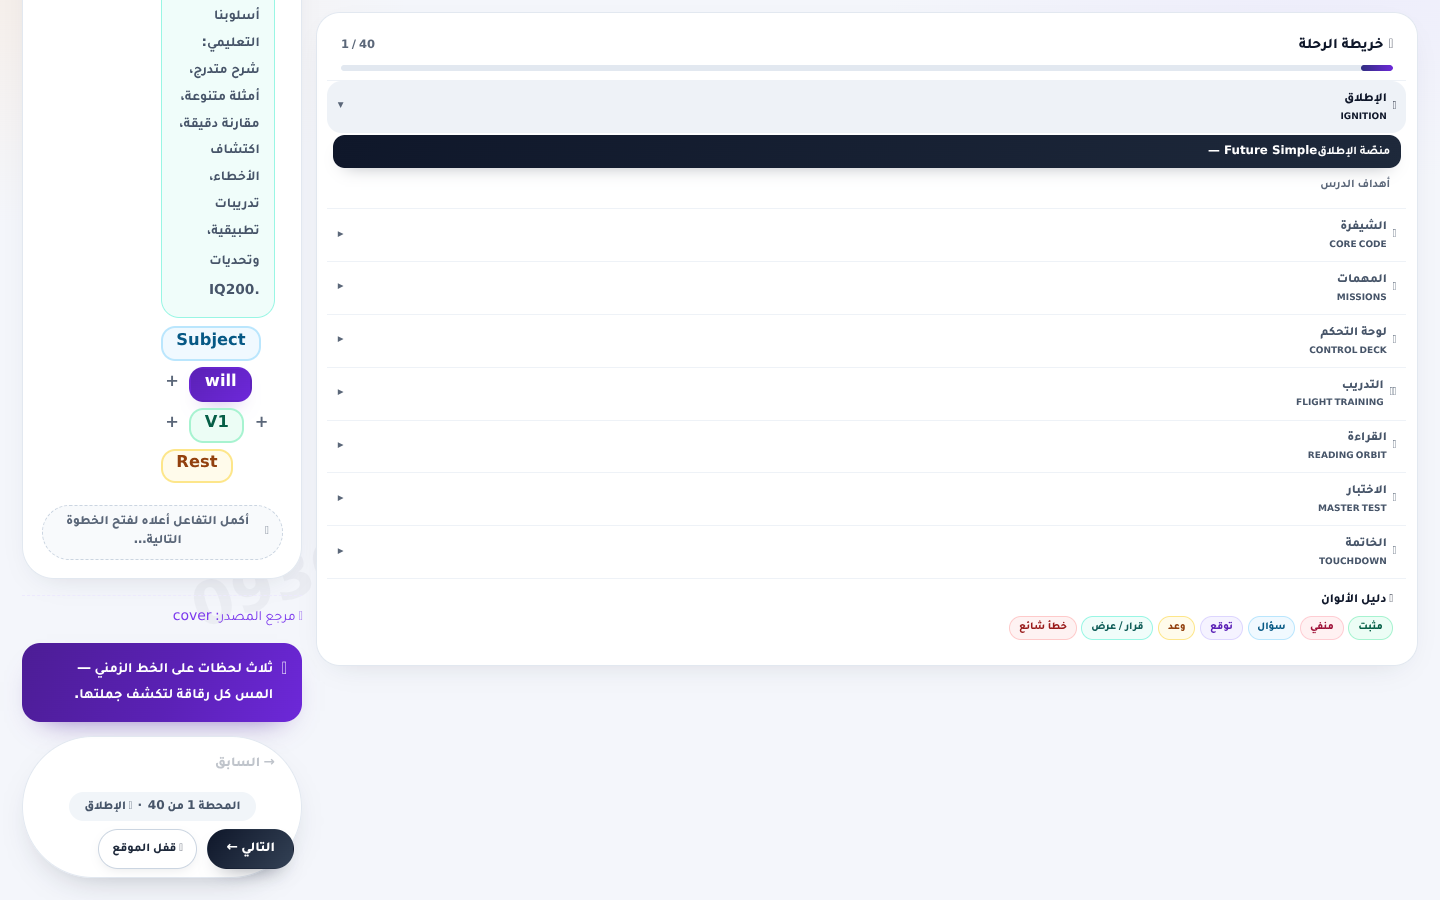
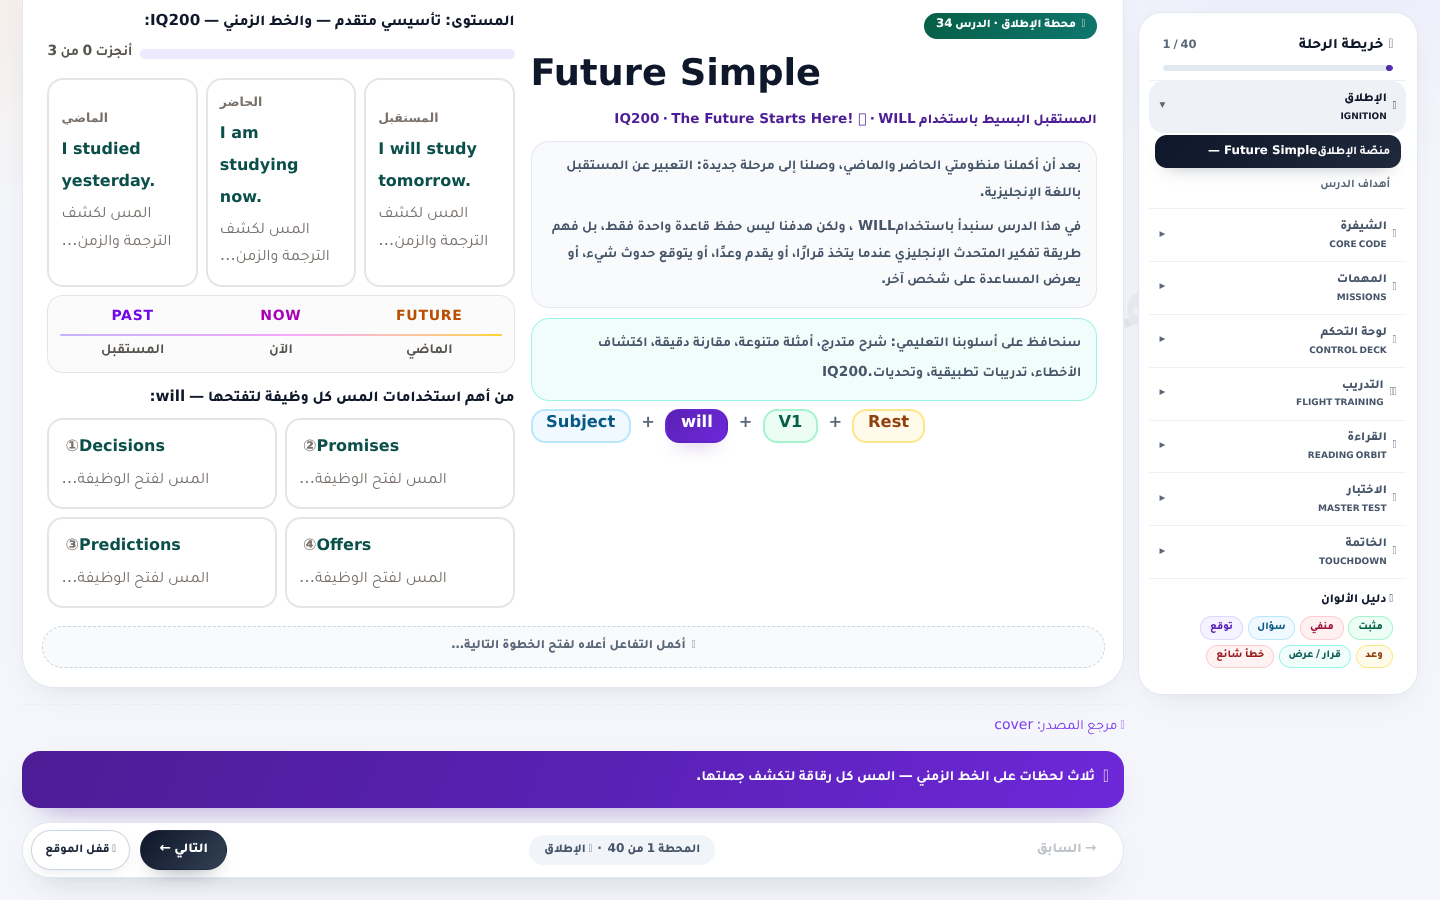
Lesson 34: إصلاح توزيع عرض الفهرس والشرح في .l34-shell
كان المساران في شبكة .l34-shell بترتيب معكوس بالنسبة لترتيب DOM:
grid-template-columns كانت minmax(0,1fr) ثم 17.5rem، بينما aside#l34-map
(خريطة الرحلة) هو أول عنصر في DOM. في اتجاه RTL يوضع أول عنصر في أول
عمود — أي في مسار 1fr — فأخذ الفهرس ~79% من العرض وترك للشرح 17.5rem
(280px فقط).

الإصلاح: تبديل المسارين، مع min(17.5rem, 25%) حتى يحفظ الفهرس عرضه
المصمّم 17.5rem على كل حاوٍ بعرض >= 1120px ولا يتجاوز ربع الحاوية على
العروض الأضيق (1100-1120px). لا مساس بالمحتوى أو بالهوية أو بالمكوّنات
المشتركة.

diff --git a/src/lessons/lesson34/lesson34.css b/src/lessons/lesson34/lesson34.css
@@ -535,7 +535,13 @@
 /* ---------- 6. shell grid + rail ---------- */
 .l34-shell {
   display: grid;
-  grid-template-columns: minmax(0, 1fr) 17.5rem;
+  /* RTL: العمود الأول يبدأ من اليمين، وهو أول عنصر في DOM (aside#l34-map
+     = خريطة الرحلة)، والعمود الثاني على اليسار (main = الشرح).
+     لذا يجب أن يكون المسار المقيّد أولًا والمسار المرن ثانيًا، وإلا
+     تبدّلت النسب فيأخذ الفهرس 1fr والشرح 17.5rem.
+     min() تحفظ عرض الفهرس المصمّم 17.5rem على كل عرض حاوٍ ≥ 1120px،
+     وتمنعه من تجاوز ربع الحاوية على العروض الأضيق (1100–1120px). */
+  grid-template-columns: min(17.5rem, 25%) minmax(0, 1fr);
   gap: 0.85rem;
   align-items: start;
   margin-top: 0.75rem;
